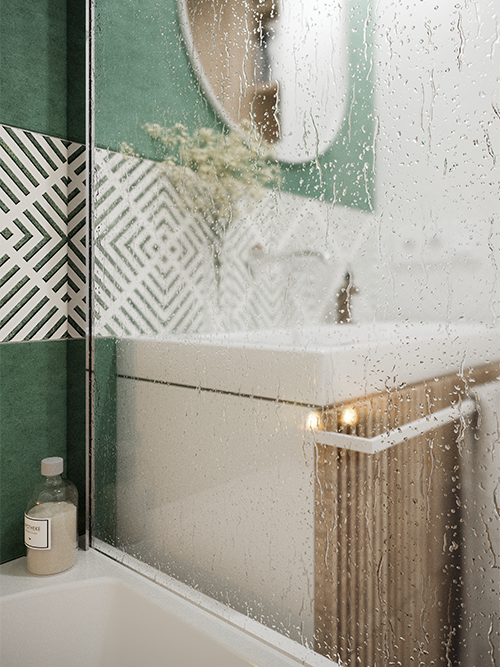
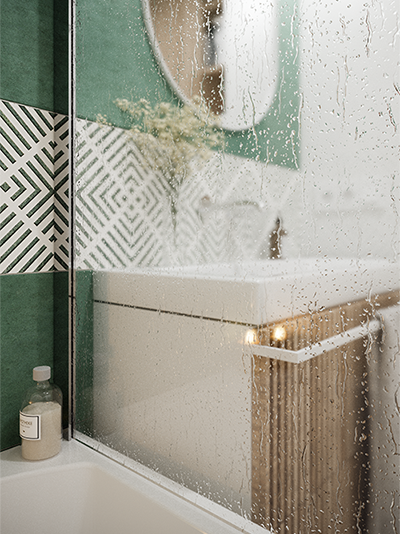
Changed imgs' and btns' sizes

diff --git a/style.css b/style.css
@@ -78,7 +78,7 @@ h5.modal-title {
     margin:auto;
     margin-top: 1rem;
     margin-bottom: 2rem;
-    width: 80%;
+    width: 64%;
     background-color: #cccccc;
     color: black;
 
